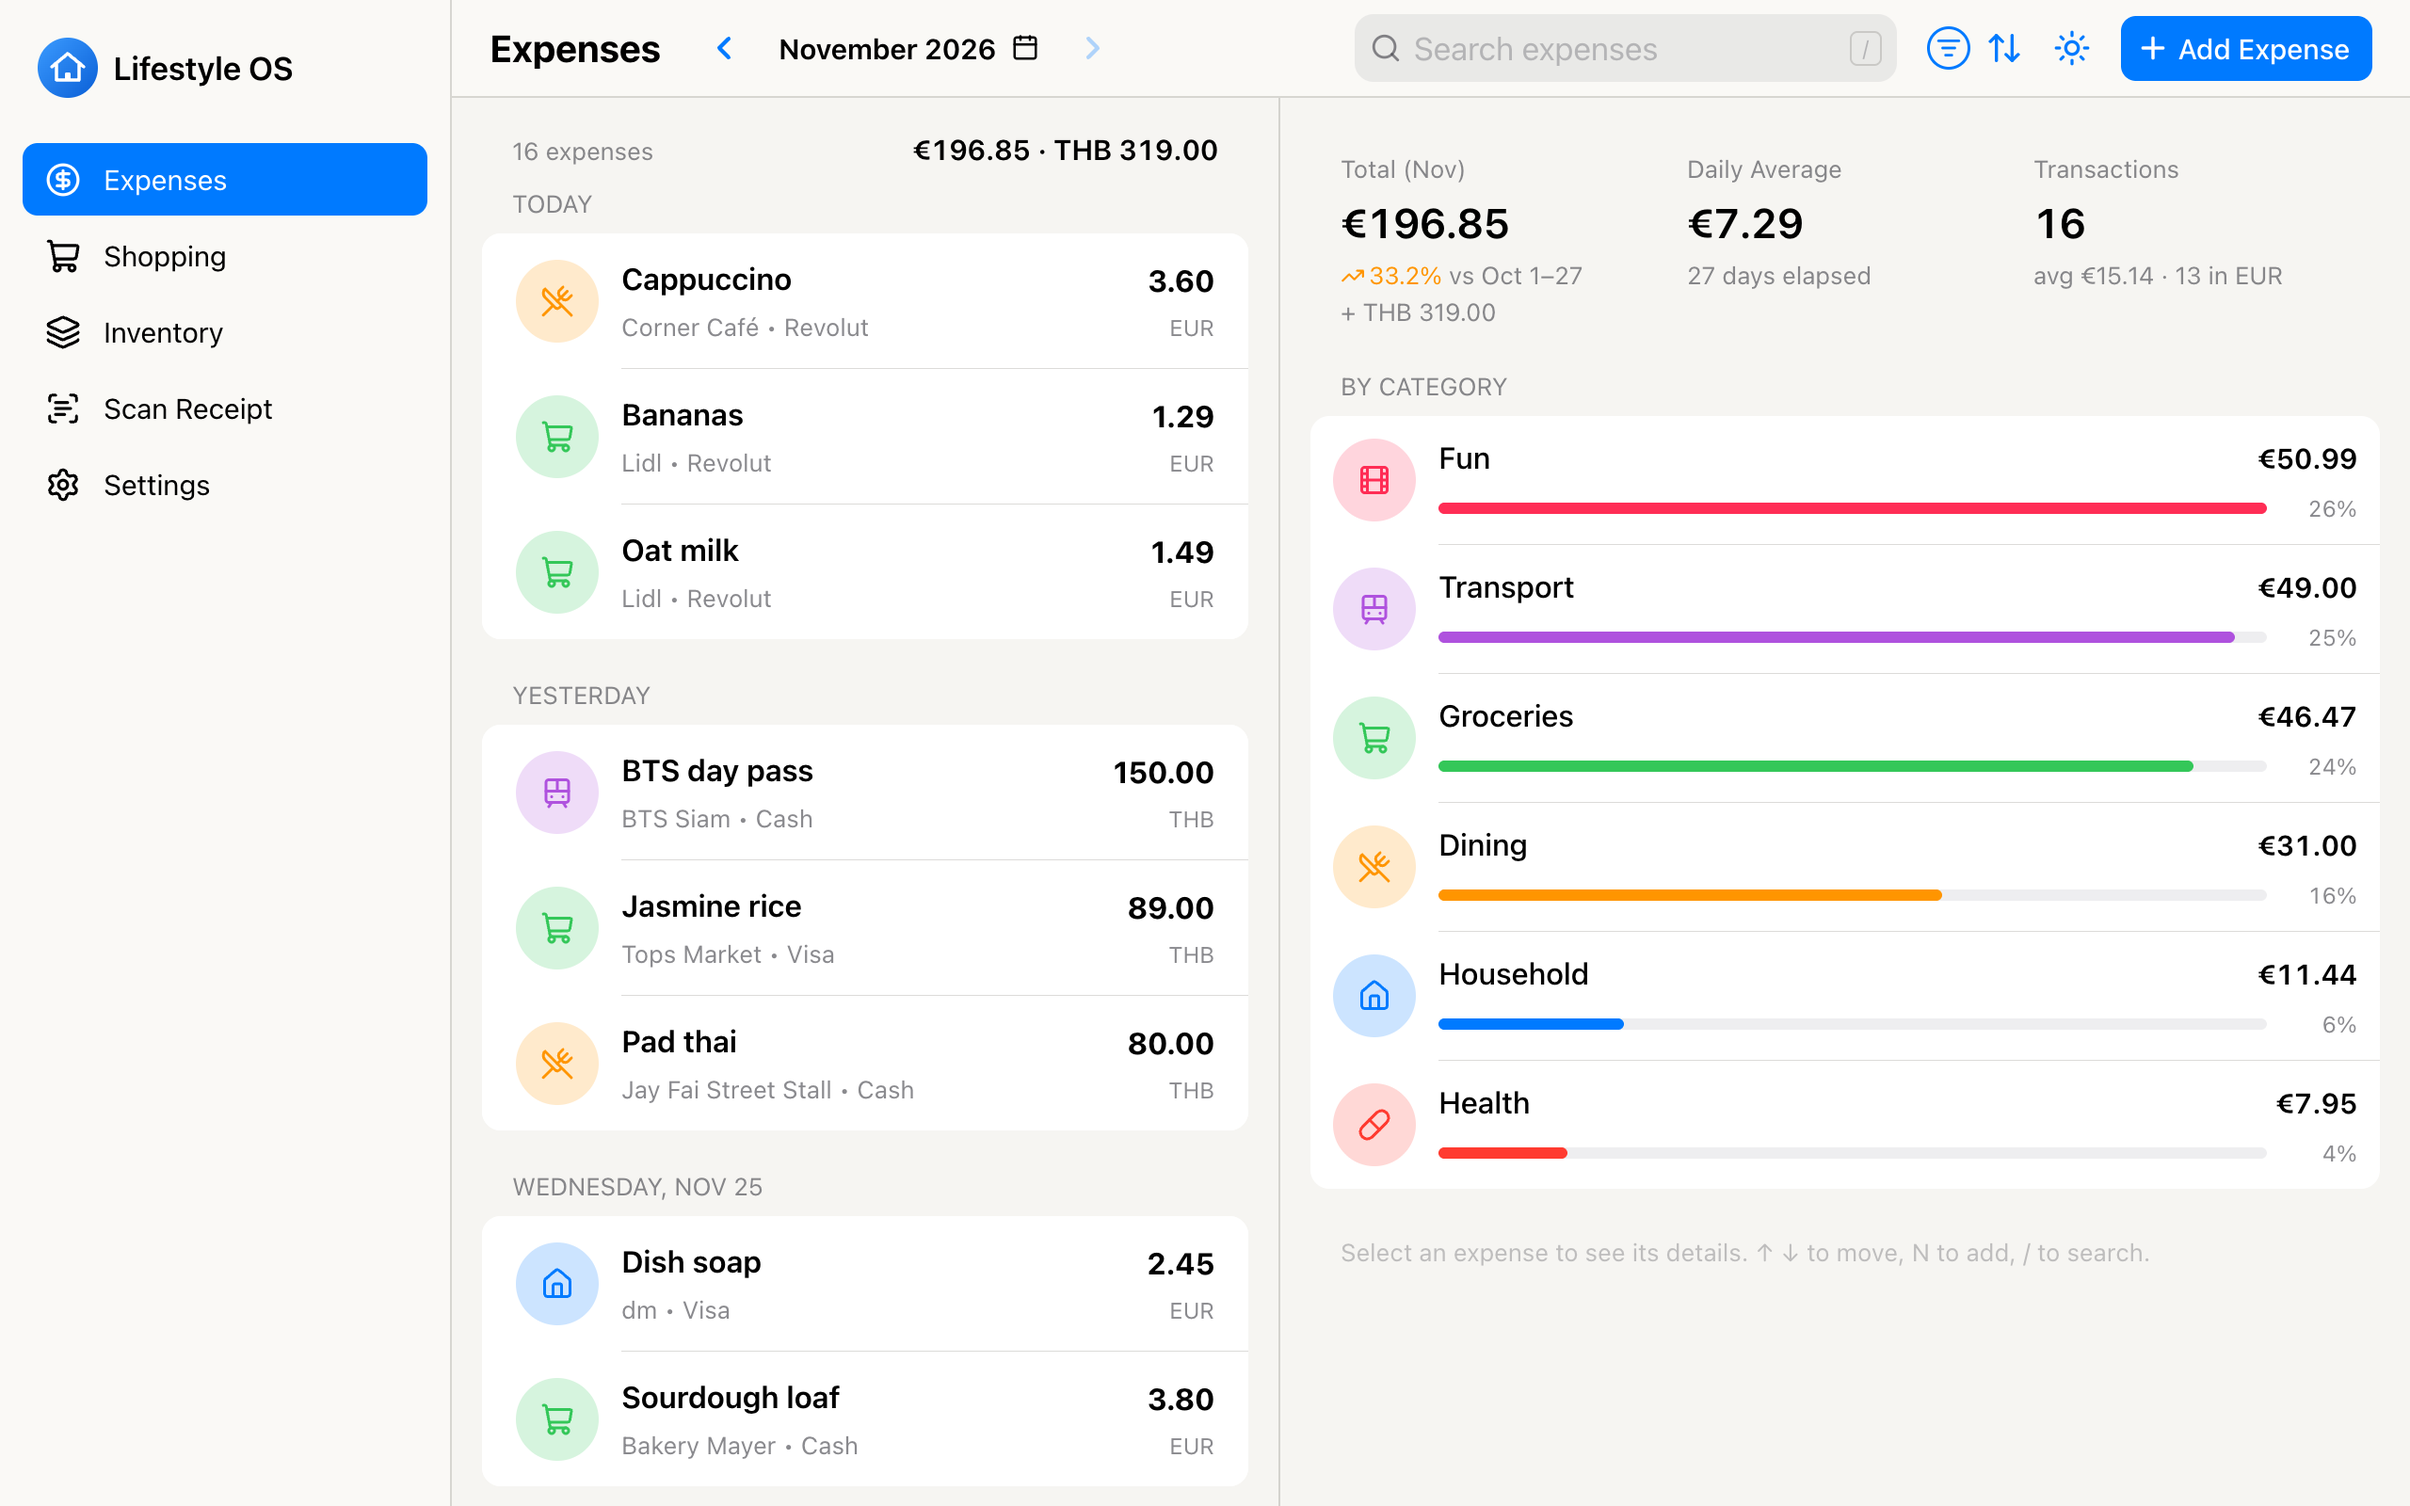
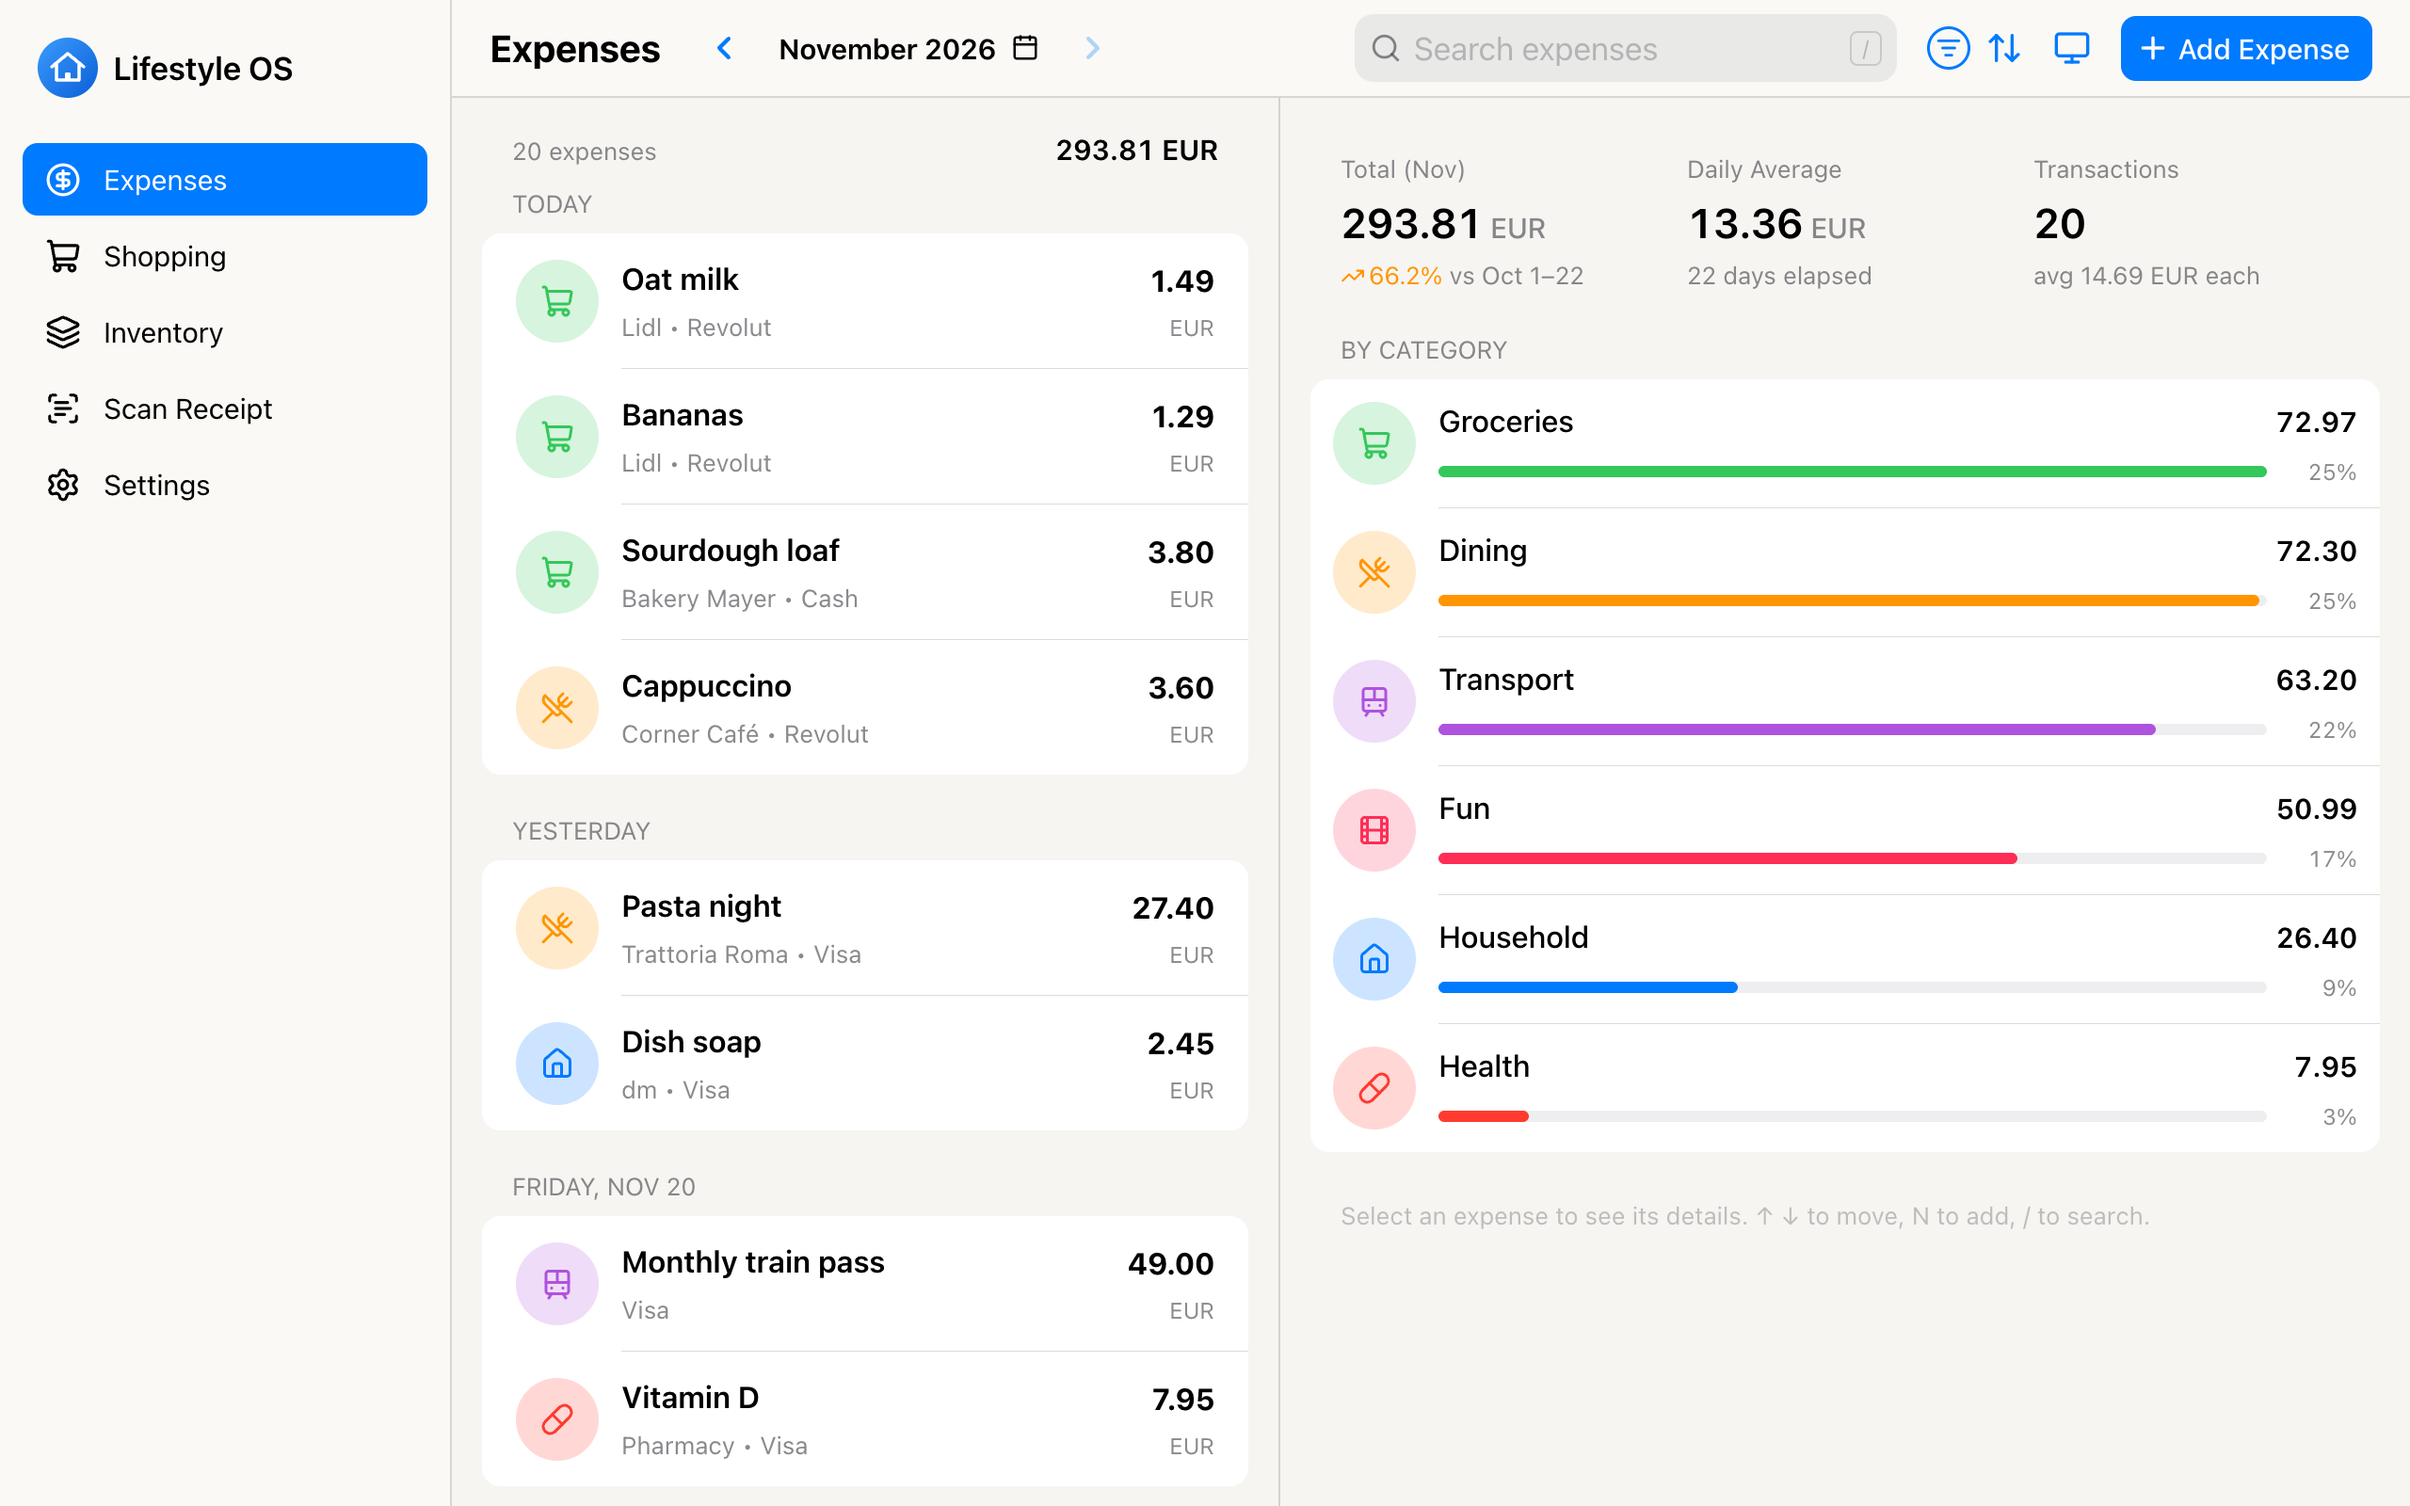
Restore dark README screenshots; light shots live only in public/landing

diff --git a/scripts/landing-screenshots.playwright.js b/scripts/landing-screenshots.playwright.js
@@ -5,7 +5,7 @@
 //
 // Run it with the Playwright MCP tool `browser_run_code_unsafe`, passing this file as `filename`
 // (the file must sit inside the repo or .playwright-mcp/). It writes expenses.png, scan.png and
-// desktop.png to `out` (below); copy them to docs/screenshots/ and public/landing/.
+// desktop.png to `out` (below); copy them to public/landing/ (not docs/screenshots/, which holds the README's dark-theme shots).
 // REF is the public Supabase project ref from NEXT_PUBLIC_SUPABASE_URL (it names the auth storage key).
 async (page0) => {
 const REF = "ywmygkzatdvuliiwjpuh";

diff --git a/README.md b/README.md
@@ -75,7 +75,7 @@ The landing page is light-only: its colors don't use the app's CSS variables and
 
 **Installed app.** `StandaloneRedirect` (rendered on `/` only) sends a visitor who opened the installed app (display mode `standalone`) from `/` to `/expenses`.
 
-**Images** in `public/landing/` (`scan.png`, `expenses.png`, `desktop.png`) are copies of the files in `docs/screenshots/`. They are light-theme shots with fake demo data, made by `scripts/landing-screenshots.playwright.js` (mocks Supabase and the scan API with Playwright routes; run it through the Playwright MCP `browser_run_code_unsafe` tool against `npm run dev`). When a screenshot changes, copy it over again.
+**Images** in `public/landing/` (`scan.png`, `expenses.png`, `desktop.png`) are the landing page's own light-theme shots with fake demo data (the README's dark-theme shots in `docs/screenshots/` are separate), made by `scripts/landing-screenshots.playwright.js` (mocks Supabase and the scan API with Playwright routes; run it through the Playwright MCP `browser_run_code_unsafe` tool against `npm run dev`).
 
 **Copy** comes from the approved mockup, `docs/superpowers/mockups/2026-11-27-landing-full-page.html`, and the spec, `docs/superpowers/specs/2026-11-27-landing-page-design.md`. Edit those together with the components.
 
